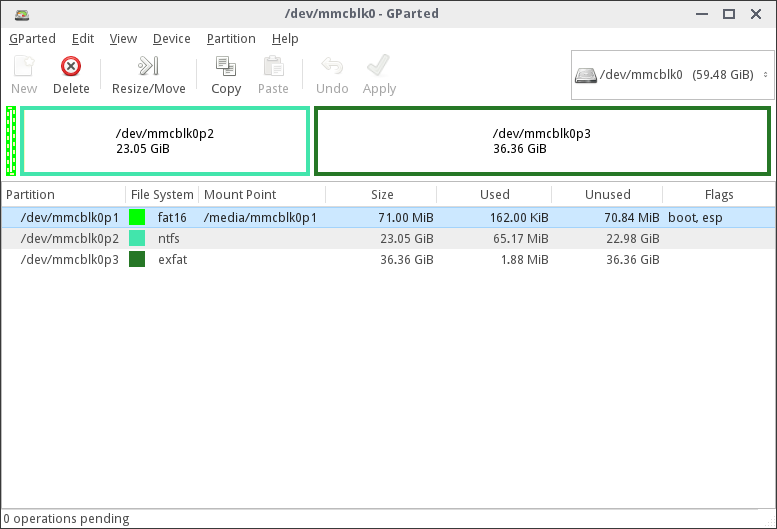
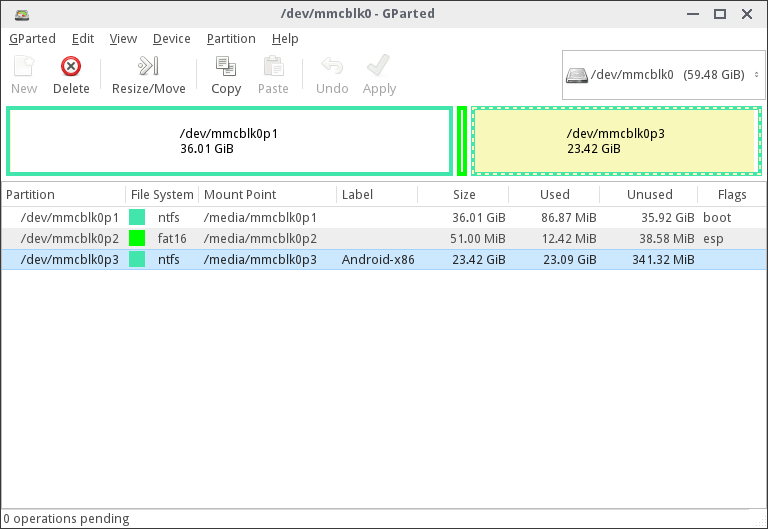
Partition layout corrections

diff --git a/_posts/2017-12-15-android-x86-on-sdcard-with-ntfs-secure-boot-uefi.html b/_posts/2017-12-15-android-x86-on-sdcard-with-ntfs-secure-boot-uefi.html
@@ -141,8 +141,8 @@ well).</p>
 partitions in the following order:</p>
 
 <ul>
-<li>(optional) NTFS/FAT32/exFAT partition to be read by both Android and Windows/Linux – whatever capacity makes sense to you. It is VERY IMPORTANT that this partition be the first partition on the list, otherwise Windows will not be able to see it (Linux will still do the job);</li>
-<li>Tiny FAT16 partition (anything above 20 MB should be safe) – set the following flags: efs, boot (VERY IMPORTANT);</li>
+<li>(optional) NTFS/FAT32/exFAT partition to be read by both Android and Windows/Linux – whatever capacity makes sense to you. It is VERY IMPORTANT that this partition be the first partition on the list, otherwise Windows will not be able to see it (Linux will still do the job). You must also set the <code>boot</code> flag, which will tell Windows that this is the "active" partition.;</li>
+<li>Tiny FAT16 partition (anything above 20 MB should be safe) – set the following flag: <code>efs</code> (VERY IMPORTANT, otherwise you won't be able to boot the SD card);</li>
 <li>All the remaining space should be converted to an NTFS partition with at least 4GB (the less you have here, the quicker Android will run out-of-space and become unstable… 4GB is extremely little in case you intend to install some of the most popular apps, to illustrate).</li>
 </ul>
 
